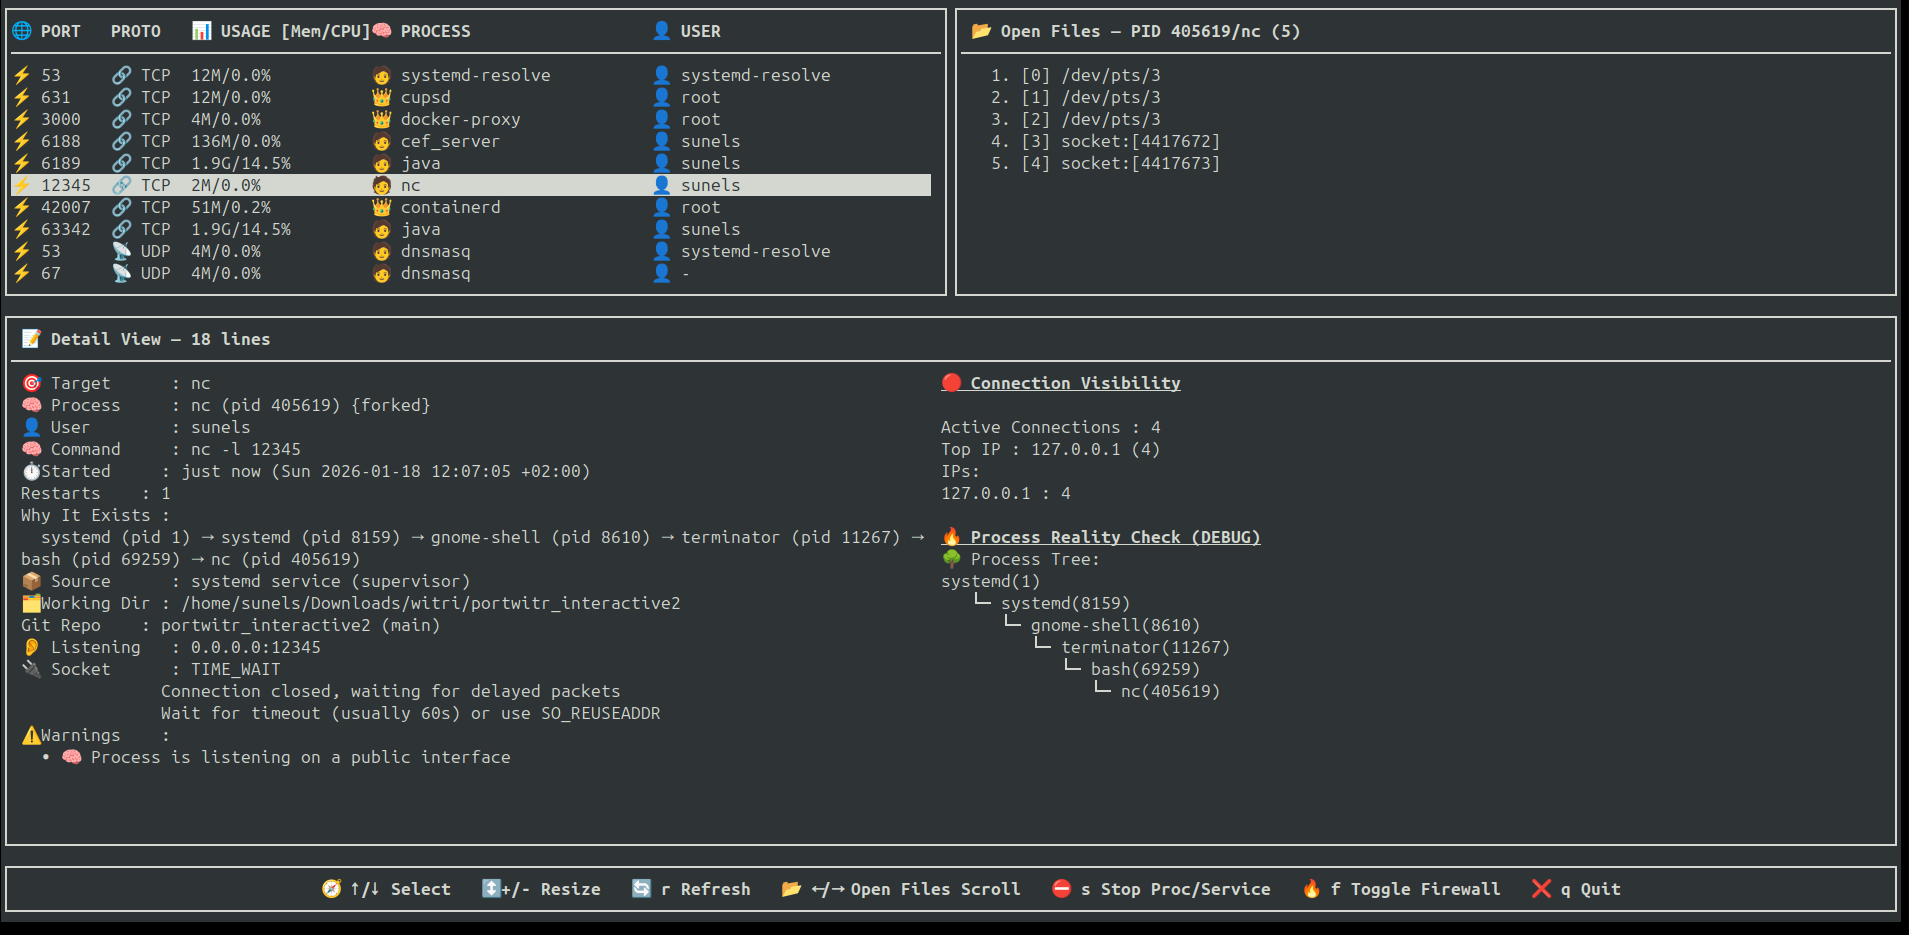
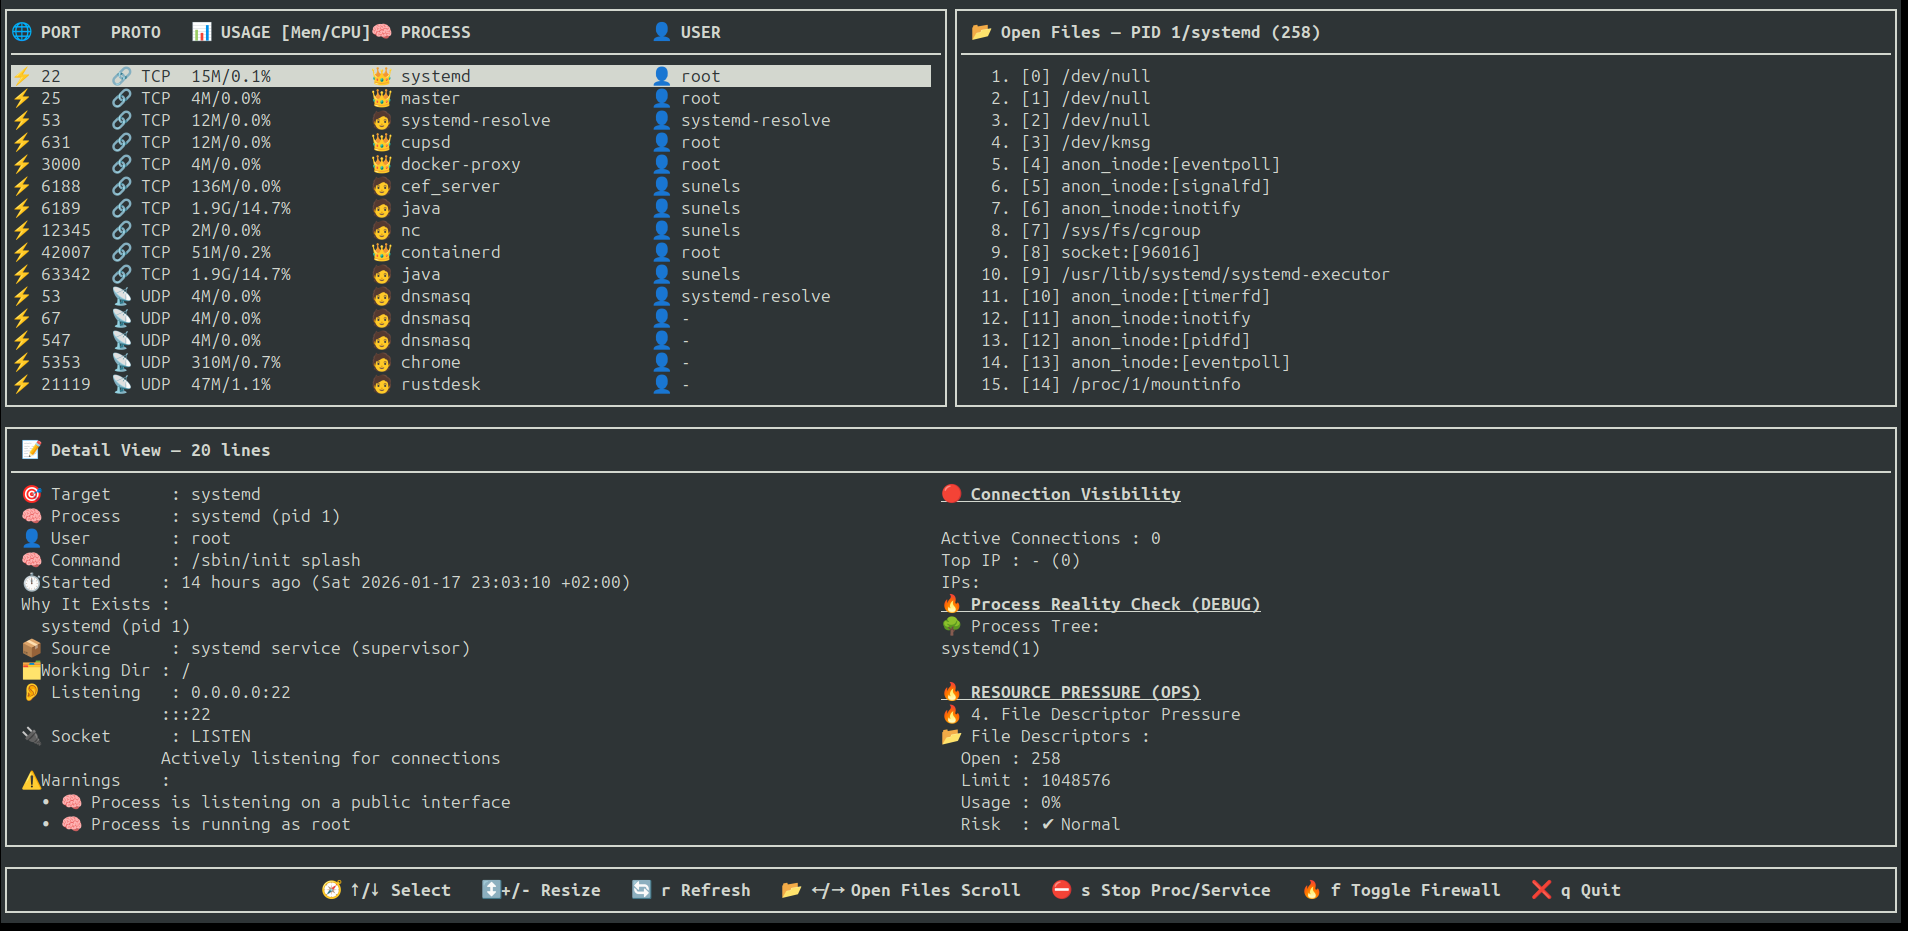
- Resource pressure feature is added - Screenshot updated

Changed region(s): [[0.0, 0.0, 1.0, 0.9968]]

diff --git a/portwitr_interactive.py b/portwitr_interactive.py
@@ -441,11 +441,12 @@ def draw_detail(win, lines, scroll=0, conn_info=None):
     win.erase()
     h, w = win.getmaxyx()
     header = f"📝 Detail View — {len(lines)} lines"
-    win.addstr(1, 2, header, curses.A_BOLD)
-    win.hline(2, 1, curses.ACS_HLINE, w - 2)
+    if h > 1:
+        win.addstr(1, 2, header[:w-4], curses.A_BOLD)
+        win.hline(2, 1, curses.ACS_HLINE, w - 2)
     max_rows = h - 4
 
-    # 🔹 Icon mapping (RESTORED)
+    # 🔹 Icon mapping
     icons = {
         "Target": "🎯",
         "Container": "🐳",
@@ -467,57 +468,85 @@ def draw_detail(win, lines, scroll=0, conn_info=None):
     conn_panel_x = w - conn_panel_w - 1
 
     if conn_info:
+        row_y = 3
+        def safe_add(y, x, txt, attr=0):
+            if y < h - 1:
+                try:
+                    win.addstr(y, x, txt[:w - x -1], attr)
+                except curses.error:
+                    pass
+
         # 🔴 Connection Visibility
-        win.addstr(3, conn_panel_x,
-                   "🔴 Connection Visibility",
-                   curses.A_BOLD | curses.A_UNDERLINE)
-
-        win.addstr(5, conn_panel_x,
-                   f"Active Connections : {conn_info['active_connections']}")
-        win.addstr(6, conn_panel_x,
-                   f"Top IP : {conn_info['top_ip']} ({conn_info['top_ip_count']})")
-
-        win.addstr(7, conn_panel_x, "IPs:")
-        row_y = 8
+        safe_add(row_y, conn_panel_x, "🔴 Connection Visibility", curses.A_BOLD | curses.A_UNDERLINE)
+        row_y += 2
+        safe_add(row_y, conn_panel_x, f"Active Connections : {conn_info['active_connections']}")
+        row_y += 1
+        safe_add(row_y, conn_panel_x, f"Top IP : {conn_info['top_ip']} ({conn_info['top_ip_count']})")
+        row_y += 1
+        safe_add(row_y, conn_panel_x, "IPs:")
+        row_y += 1
         for ip, cnt in conn_info["all_ips"].most_common(5):
-            if row_y >= h - 10:
+            if row_y >= h - 1:
                 break
-            win.addstr(row_y, conn_panel_x, f"{ip} : {cnt}")
+            safe_add(row_y, conn_panel_x, f"{ip} : {cnt}")
             row_y += 1
 
-        # 🔥 PROCESS REALITY CHECK (DEBUG) — RESTORED
-        row_y += 1
-        win.addstr(row_y, conn_panel_x,
-                   "🔥 Process Reality Check (DEBUG)",
-                   curses.A_BOLD | curses.A_UNDERLINE)
+        # 🔥 PROCESS REALITY CHECK
+        if row_y < h - 1:
+            safe_add(row_y, conn_panel_x, "🔥 Process Reality Check (DEBUG)", curses.A_BOLD | curses.A_UNDERLINE)
+            row_y += 1
 
         pid = conn_info.get("pid")
         if pid and pid.isdigit():
             chain = get_process_parent_chain(pid)
             tree = format_process_tree(chain)
-            for i, line in enumerate(tree):
-                if row_y + 1 + i >= h - 2:
+            for line in tree:
+                if row_y >= h - 1:
                     break
-                win.addstr(row_y + 1 + i, conn_panel_x, line)
+                safe_add(row_y, conn_panel_x, line)
+                row_y += 1
+
+            # 🔥 RESOURCE PRESSURE → File Descriptor Pressure
+            row_y += 1
+
+            if row_y < h - 1:
+                safe_add(row_y, conn_panel_x, "🔥 RESOURCE PRESSURE (OPS)", curses.A_BOLD | curses.A_UNDERLINE)
+                row_y += 1
+            if row_y < h - 1:
+                safe_add(row_y, conn_panel_x, "🔥 4. File Descriptor Pressure")
+                row_y += 1
+            if row_y < h - 1:
+                safe_add(row_y, conn_panel_x, "📂 File Descriptors :")
+                row_y += 1
+
+            fd_info = get_fd_pressure(pid)
+            for key in ["open", "limit", "usage"]:
+                if row_y >= h - 1:
+                    break
+                safe_add(row_y, conn_panel_x, f"  {key.capitalize()} : {fd_info[key]}")
+                row_y += 1
+            if row_y < h - 1:
+                safe_add(row_y, conn_panel_x, f"  Risk  : {fd_info['risk']}")
+                row_y += 1
         else:
-            win.addstr(row_y + 1, conn_panel_x, "<no pid>")
+            safe_add(row_y, conn_panel_x, "<no pid>")
 
     # 🔹 Detail lines (LEFT PANE + ICONS)
     for i in range(max_rows):
         idx = scroll + i
         if idx >= len(lines):
             continue
-
         line = lines[idx]
         for key, icon in icons.items():
             if key in line and not line.strip().startswith(icon):
                 line = line.replace(key, f"{icon} {key}", 1)
-
-        win.addstr(i + 3, 2, line[:conn_panel_x - 3])
+        try:
+            win.addstr(i + 3, 2, line[:conn_panel_x - 3])
+        except curses.error:
+            pass
 
     win.box()
     win.noutrefresh()
-
 
 def draw_open_files(win, pid, prog, files, scroll=0):
     win.erase()
@@ -712,6 +741,52 @@ def format_process_tree(chain):
         prefix = "   " * i + ("└─ " if i else "")
         lines.append(f"{prefix}{node}")
     return lines
+
+def get_fd_pressure(pid):
+    """
+    Return dict with open, limit, usage% and risk comment
+    """
+    fd_info = {
+        "open": "-",
+        "limit": "-",
+        "usage": "-",
+        "risk": "-"
+    }
+    if not pid or not pid.isdigit():
+        return fd_info
+    try:
+        open_count = len(os.listdir(f"/proc/{pid}/fd"))
+    except PermissionError:
+        open_count = "-"
+    except FileNotFoundError:
+        open_count = "-"
+
+    try:
+        with open(f"/proc/{pid}/limits", "r") as f:
+            for line in f:
+                if "Max open files" in line:
+                    parts = line.split()
+                    limit = int(parts[3])
+                    break
+            else:
+                limit = "-"
+    except Exception:
+        limit = "-"
+
+    if isinstance(open_count, int) and isinstance(limit, int) and limit > 0:
+        usage = int(open_count / limit * 100)
+        risk = "⚠ FD exhaustion prod’da sık patlar." if usage > 80 else "✔ Normal"
+    else:
+        usage = "-"
+        risk = "-"
+
+    fd_info.update({
+        "open": open_count,
+        "limit": limit,
+        "usage": f"{usage}%" if usage != "-" else "-",
+        "risk": risk
+    })
+    return fd_info
 
 if __name__ == "__main__":
     check_python_version()
